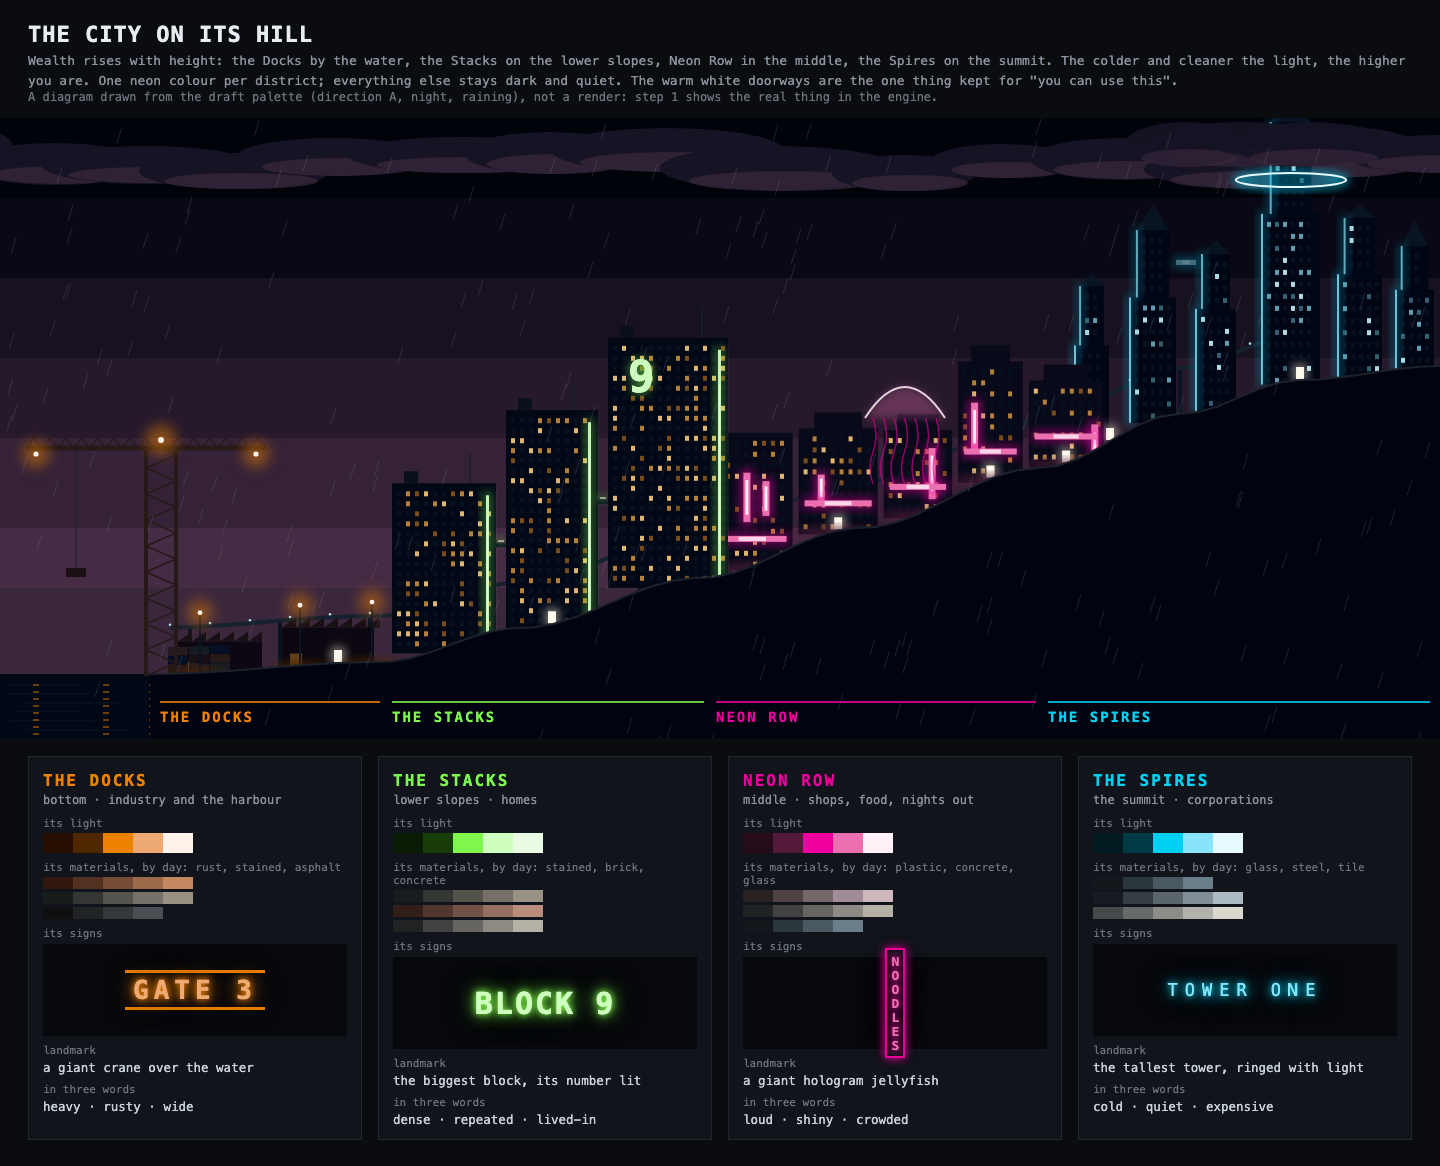
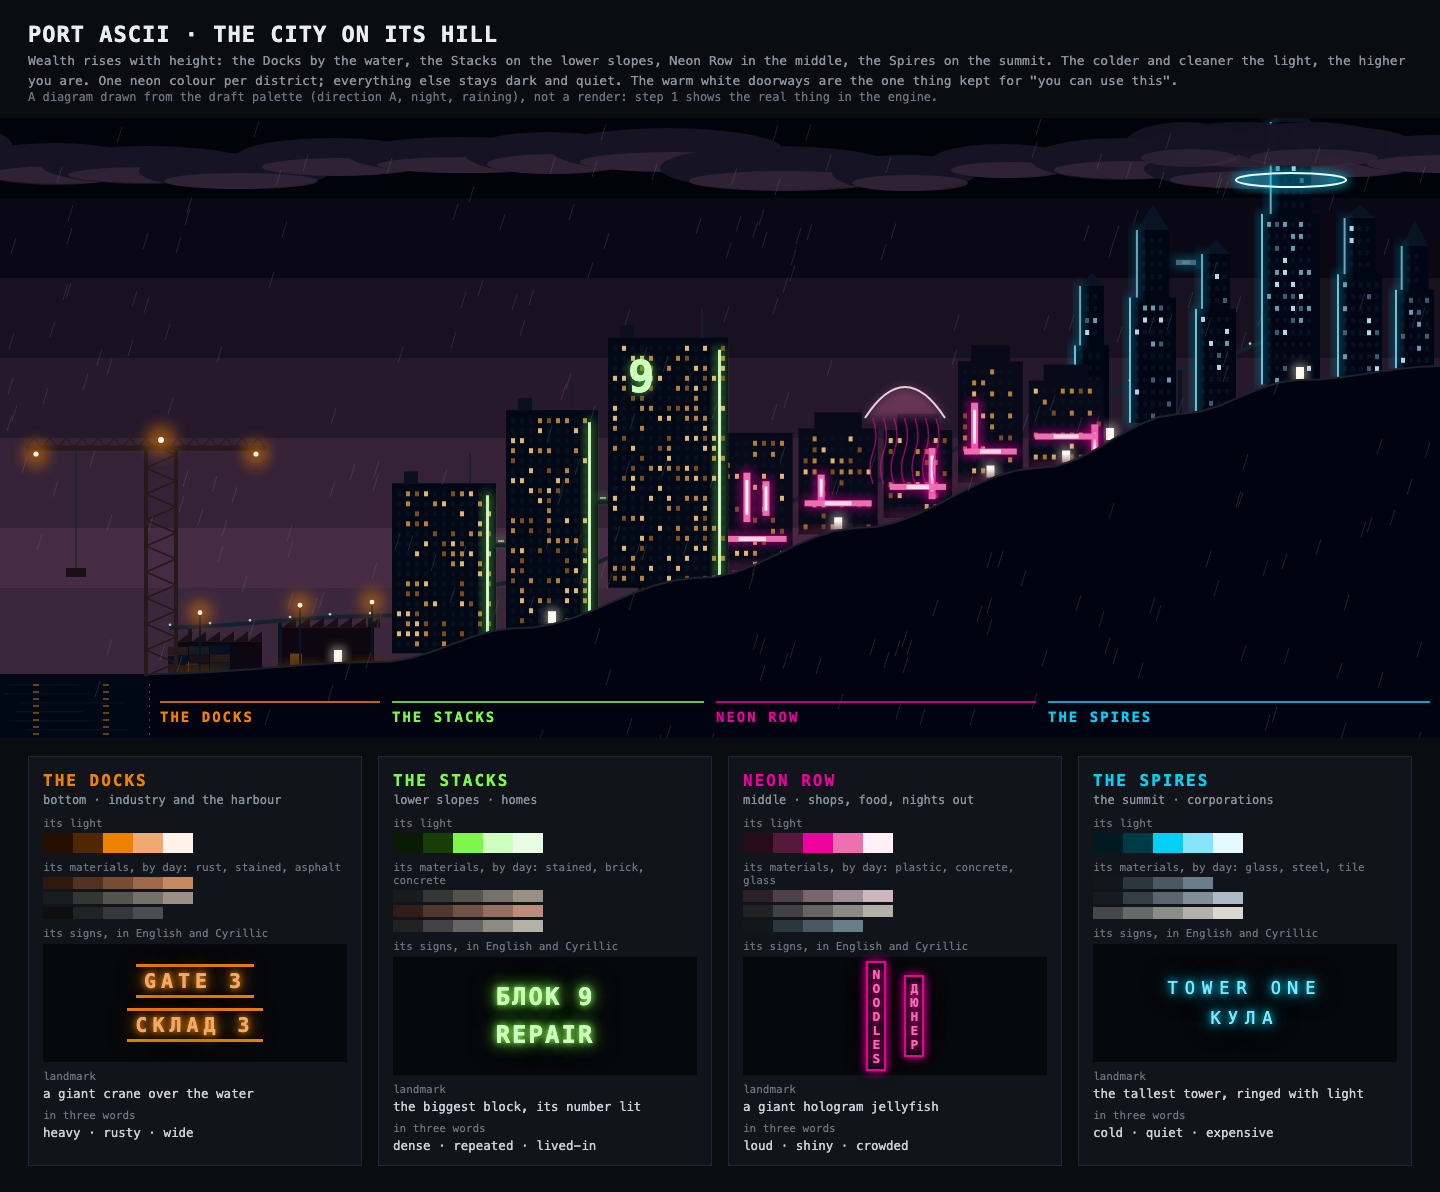
city: Martin's decisions in the art bible (Port Ascii)
Port Ascii; mood A, rain noir (B and C still shown beside it in step 1);
a full day; rain most nights; signs in English and Cyrillic (Bulgarian),
both in every district, with a first vocabulary and the letters the
bitmaps need; a jellyfish hologram; the start at the docks; credits.
The city sheet shows each district's signs in both scripts.

diff --git a/docs/city/bible.md b/docs/city/bible.md
@@ -1,8 +1,8 @@
-# The city: art bible
+# Port Ascii: art bible
 
-The second world of Ascii: a cyberpunk city in the spirit of Night City, with elevation and megabuildings, chosen at the start alongside the Land (Martin, 30 Sep 2026). On 4 Oct Martin asked for it to be planned properly from the ground up, starting with a design system, so that it looks consistent and its parts are easy to tell apart. This file is that design system: what the city looks like, why, and the rules every part of it follows.
+The second world of Ascii, **Port Ascii**: a cyberpunk city in the spirit of Night City, with elevation and megabuildings, chosen at the start alongside the Land (Martin, 30 Sep 2026). On 4 Oct Martin asked for it to be planned properly from the ground up, starting with a design system, so that it looks consistent and its parts are easy to tell apart. This file is that design system: what the city looks like, why, and the rules every part of it follows.
 
-- **Status:** step 0, a draft for Martin to mark up. Where he hasn't chosen yet, my default is in **bold** (see [Open questions](#16-open-questions-for-martin)). Nothing in the game uses it yet.
+- **Status:** step 0 is done, and Martin settled its open questions on 4 Oct (see [Decisions](#16-decisions)). Nothing in the game uses it yet.
 - **The research behind it:** [research.md](research.md).
 - **The colours:** [palette.json](palette.json), generated by `node tools/city-palette.mjs` from a recipe, so the whole palette moves together when one number changes.
 - **The pictures:** `node tools/city-sheet.mjs` draws them into `shots/city/step0/`:
@@ -27,7 +27,7 @@ The city stays behind a hidden switch (a special address, `?world=city`) until M
 
 ## 1. The city in a paragraph
 
-A harbour city climbing a steep hill. There is no room to spread, so it builds upward, and money climbs with it: the corporations own the summit and the poor live by the water. It is always wet, often raining, and never quite dark, because the signs light it all night. You arrive at the docks and look up at the whole city rising in front of you.
+Port Ascii is a harbour city climbing a steep hill. There is no room to spread, so it builds upward, and money climbs with it: the corporations own the summit and the poor live by the water. It is always wet, often raining, and never quite dark, because the signs light it all night. You arrive at the docks and look up at the whole city rising in front of you.
 
 ## 2. Three words to test everything against
 
@@ -86,9 +86,9 @@ The engine already works like a design system: hand-built colour ramps for each 
 
 ### The moods to test (step 1)
 
-The same materials, districts and neon under three different lights ([sheet-moods](../../shots/city/step0/sheet-moods.png)):
+The same materials, districts and neon under three different lights ([sheet-moods](../../shots/city/step0/sheet-moods.png)). Martin picked A; step 1 still shows B and C beside it in the engine, since a palette swap costs nothing and the engine may surprise us:
 
-- **A, Rain noir** (my pick): blue-black nights, grey smog days, the neon held back; rain most nights.
+- **A, Rain noir** (Martin's pick): blue-black nights, grey smog days, the neon held back; rain most nights.
 - **B, Neon soak:** violet-black nights, stronger and wetter neon, more signs to a street. ⚠ The risk is mush.
 - **C, Smog amber:** amber haze by day and at dusk, warmer nights, the neon cooler against it; drier.
 
@@ -179,7 +179,7 @@ The same materials, districts and neon under three different lights ([sheet-mood
   - the Spires: white strips.
 - **The hours:** by day, grey smog with the signs dimmed; at dusk the smog turns orange and violet as the signs come on; the night belongs to the neon. It runs on the same 24-hour clock as the Land, so people's timetables work the same way.
 - **Slow motion only:** signs never blink. A few big signs scroll their text slowly, the hologram drifts, rain falls, steam rises. Nothing flickers.
-- **Rain:** **most nights**, and the streets stay damp all night after it stops. Mist settles low over the Docks at dawn. No snow.
+- **Rain:** most nights, and the streets stay damp all night after it stops. Mist settles low over the Docks at dawn. No snow.
 
 ## 9. Surfaces and marks (the two looks)
 
@@ -206,14 +206,27 @@ The first vocabulary (drawn as glyph bitmasks in code, never a font):
 
 ### Signs are text
 
-The city is drawn in letters, so its signs say real words: NOODLES, BAR, HOTEL, OPEN, 24H, REPAIR, BLOCK 9, GATE 3. Up close you can read them; far off they become blocks of glow, as the Land's marks fade. Each district has its own sign style:
+The city is drawn in letters, so its signs say real words, **in English and in Cyrillic** (Bulgarian). Each sign is in one script, and both scripts appear in every district. Up close you can read them; far off they become blocks of glow, as the Land's marks fade.
+
+A first vocabulary (Martin to check the Bulgarian):
+
+| District | English | Cyrillic |
+|---|---|---|
+| the Docks | GATE 3, DOCK 7, P-12 | СКЛАД 3 (warehouse), ДОК 7, ВХОД (entrance) |
+| the Stacks | BLOCK 9, REPAIR | БЛОК 9, МАГАЗИН (shop), АПТЕКА (pharmacy, with its green cross), РЕМОНТ (repair) |
+| Neon Row | NOODLES, BAR, HOTEL, OPEN, 24H | ДЮНЕР (döner), БАР, ХОТЕЛ, КАФЕ, ДЕНОНОЩНО (open all night) |
+| the Spires | TOWER ONE, a corporation's name | КУЛА (tower) |
+
+The letters are bitmaps drawn in code, like every glyph: A to Z, 0 to 9, and the 30 capitals of the Bulgarian alphabet (about 19 of them have shapes Latin lacks: Б Г Д Ж З И Й Л П У Ф Ц Ч Ш Щ Ъ Ь Ю Я).
+
+Each district has its own sign style:
 
 - the Spires: one word in thin, spaced capitals;
 - Neon Row: stacked vertical blades;
 - the Stacks: big painted numbers;
 - the Docks: stencilled codes.
 
-The words are short and in **English** by default. ⚠ Whether the engine can draw readable letters on a sign in both looks is one of step 1's tests.
+⚠ Whether the engine can draw readable letters on a sign in both looks is one of step 1's tests.
 
 ## 10. People and vehicles
 
@@ -234,7 +247,7 @@ The words are short and in **English** by default. ⚠ Whether the engine can
   - **the signal's warm white for anything you can click or hover**, the job amber does in the Land;
   - the current district's name on the HUD, in its colour.
 - **Icons:** the same 16×16 pixel style, drawn in the city's palette.
-- **Money:** **credits** instead of gold.
+- **Money:** credits instead of gold.
 
 ## 12. Never
 
@@ -301,15 +314,15 @@ Fixed camera shots, taken again after every step and compared side by side. Each
 11. A wet street, looking along it (reflections).
 12. The view down from the Spires.
 
-## 16. Open questions for Martin
+## 16. Decisions
 
-My defaults are in bold; they stand unless you choose otherwise.
+Martin, 4 Oct 2026 ("Port Ascii, signs in both Cyrillic and English, a jellyfish hologram yeah, at the docks start, yes to all others"):
 
-1. **The name:** **Port Ascii** · City of Ascii · Glyphport · your own.
-2. **The mood:** **A, Rain noir** · B, Neon soak · C, Smog amber. You see all three in the engine in step 1 before choosing.
-3. **Day and night:** **a full day, with smoggy days and neon nights** · always night.
-4. **Rain:** **most nights, with the streets damp all night** · now and then.
-5. **Signs:** **short English words** · mixed with Cyrillic or made-up scripts.
-6. **The hologram:** **a giant jellyfish** · a koi · a face · your idea.
-7. **Where you start:** **at the docks, looking up the hill** · on the summit · halfway up.
-8. **Money:** **credits** · keep gold.
+1. **The name:** Port Ascii.
+2. **The mood:** A, Rain noir (B and C are shown beside it in step 1).
+3. **Day and night:** a full day, with smoggy days and neon nights.
+4. **Rain:** most nights, with the streets damp all night.
+5. **Signs:** English and Cyrillic (Bulgarian), both in every district.
+6. **The hologram:** a giant jellyfish.
+7. **Where you start:** at the docks, looking up the hill.
+8. **Money:** credits.

diff --git a/CLAUDE.md b/CLAUDE.md
@@ -6,7 +6,7 @@ Read `docs/phase1.md` first. It explains how a frame is drawn, the workers, the 
 
 **Phase 5 is in progress: read `docs/phase5.md`** (a lived-in world: your bag, then farms and village objects, animals, people). **Phase 4 (`docs/phase4.md`)** built castles with a purpose after Orthodox churches and castles spread out with towns; its roads, ground and climbable mountains come after phase 5. The game is public and playable at https://oddslice.github.io/land-of-ascii/ (GitHub Pages from `main`): every push to `main` is live, so keep `main` playable.
 
-**The city, a second world, is being planned: `docs/city/bible.md` is its art bible** (the design system: districts, colours with jobs, shapes, light, signs, people, screens, a never-do list, a checklist and the checks). Read it before touching anything in the city. Nothing in the game uses it yet.
+**Port Ascii, the second world (a cyberpunk city), is being planned: `docs/city/bible.md` is its art bible** (the design system: districts, colours with jobs, shapes, light, signs, people, screens, a never-do list, a checklist and the checks). Read it before touching anything in the city. Nothing in the game uses it yet.
 
 **Phase 3 is done: `docs/phase3.md`.** It is Martin's direction after phase 2's second step (third person, a bigger and more open world after Ocarina of Time, no flicker, gear that shows on your hero, then settlements), the plan in five steps, and each step as it is built.
 
@@ -135,8 +135,8 @@ Test harness notes:
   - **Step 4 (animals) is built:** sheep or cows in every pasture, flocks on open grass near the villages, hens before the houses, ducks on the nearest water, deer in the forests' clearings; they turn, walk and graze on a timetable, move off as you come close, and a deer bolts.
   - **Step 5 (people) is built:** villagers with a day of their own in every village and town (out after sunrise to the square, the well, the market or the chapel, home before dark), farmers hoeing the fields, a trader at each stall (E shows their wares), guards at the town gates; E greets anyone near, and they answer.
   - The feedback round is done: Martin sends the game out. Waiting: colourful farmland, things along the roads, docks on lakes.
-- **The city (a second world) is in planning**, following `docs/city/bible.md`: a cyberpunk city in the spirit of Night City (elevation, megabuildings), chosen at the start alongside the Land (Martin, 30 Sep). On 4 Oct Martin asked for it to be planned from the ground up, design system first.
-  - **Step 0 (the art bible) is written:** a harbour city on a hill where wealth rises with height (the Docks, the Stacks, Neon Row, the Spires), one neon colour per district over a quiet base, one warm white kept for "you can use this", signs in real words; the research (`docs/city/research.md`), a draft palette (`docs/city/palette.json`, from `tools/city-palette.mjs`) and sheets (`tools/city-sheet.mjs`). Claude Design was considered and not used for the world (see the research).
+- **Port Ascii (the second world) is in planning**, following `docs/city/bible.md`: a cyberpunk city in the spirit of Night City (elevation, megabuildings), chosen at the start alongside the Land (Martin, 30 Sep). On 4 Oct Martin asked for it to be planned from the ground up, design system first.
+  - **Step 0 (the art bible) is written:** a harbour city on a hill where wealth rises with height (the Docks, the Stacks, Neon Row, the Spires), one neon colour per district over a quiet base, one warm white kept for "you can use this", signs in real words; the research (`docs/city/research.md`), a draft palette (`docs/city/palette.json`, from `tools/city-palette.mjs`) and sheets (`tools/city-sheet.mjs`). Claude Design was considered and not used for the world (see the research). Martin's decisions (4 Oct): the name Port Ascii, mood A (rain noir), a full day, rain most nights, signs in English and Cyrillic, a jellyfish hologram, the start at the docks, credits.
   - Next, when Martin says go: step 1, a test block in the real engine behind a hidden switch (`?world=city`), in three moods; then step 2 locks the palette into the game and a style contract into this file.
 - **Speed on Martin's Mac** (M1 Max, painted look): on the 512 world, Chromium 5.7–7.5 ms a frame, Firefox 7.3–9.9 ms, WebKit 6.5–14.1 ms. The 1024 world has not been measured on an idle machine yet: with Chrome busy in the background it ran Chromium 8.4–12.5 ms, Firefox 12.3–17.1 ms. A world generates in about 2.3 s (0.5 s on the 512 world).
 - **Rough edges:**

diff --git a/README.md b/README.md
@@ -38,7 +38,7 @@ In the address: `?seed=42` for a given world, `?look=mosaic`, and `?weather=rain
 
 ## Docs
 
-- **[docs/city/bible.md](docs/city/bible.md)**: the second world, a cyberpunk city on a hill (in planning, not in the game yet). Step 0 is its art bible, the design system every part of it will follow: four districts that rise with wealth, one neon colour each over a quiet base, signs in real words ([the city](shots/city/step0/sheet-city.png), [three moods](shots/city/step0/sheet-moods.png), [the palette and its checks](shots/city/step0/sheet-palette.png)). The sources are in [docs/city/research.md](docs/city/research.md).
+- **[docs/city/bible.md](docs/city/bible.md)**: Port Ascii, the second world: a cyberpunk city on a hill (in planning, not in the game yet). Step 0 is its art bible, the design system every part of it will follow: four districts that rise with wealth, one neon colour each over a quiet base, signs in English and Cyrillic ([the city](shots/city/step0/sheet-city.png), [three moods](shots/city/step0/sheet-moods.png), [the palette and its checks](shots/city/step0/sheet-palette.png)). The sources are in [docs/city/research.md](docs/city/research.md).
 - **[docs/phase2-world.md](docs/phase2-world.md)**: the phase 2 brief (in progress). Varied land, villages and towns, people and animals, and the tests that change with the world.
 - **[docs/phase2.md](docs/phase2.md)**: phase 2 as it is built. Step 1: eight regions, terrain shaped per region, new ground materials, rock strata ([pictures](shots/phase2/sheet-regions.png)). Then the painted look, shadows and water mirrors ([mosaic and painted side by side](shots/phase2/sheet-looks-1.png)). Step 2, the land: plants for every region, bridges, and weather with fireflies and auroras at night ([regions](shots/phase2/step2/sheet-regions.png), [bridges](shots/phase2/step2/sheet-bridges.png), [weather](shots/phase2/step2/sheet-weather.png)).
 - **[docs/phase5.md](docs/phase5.md)**: phase 5, a lived-in world (in progress). Step 1: your bag, an RPG inventory; eat and drink to be well fed, wear or put away what you own, and sell to the merchants ([the bag and trading](shots/phase5/step1/sheet-bag.png), [eating the cheese](shots/phase5/step1/sheet-eat.png)). Step 2a: farms round every village and town, fields in crop rows, fenced pastures, haystacks and windmills ([farms](shots/phase5/step2/sheet-farms.png)). Step 2b: life in the villages and towns, market stalls under striped awnings, barrels, woodpiles, carts, and signposts where roads leave a settlement and where they meet ([village and town life](shots/phase5/step2b/sheet-life.png)). Step 3: the bag as an RPG inventory, your hero in pixels wearing what you wear, ten slots round them and 28 blocks below, with trading beside it ([inventory](shots/phase5/step3/sheet-inventory.png)). Step 4: animals, sheep and cows in the pastures, flocks near the villages, hens, ducks and deer that bolt as you come near ([animals](shots/phase5/step4/sheet-animals.png)). Step 5: people, villagers with a day of their own, farmers in the fields, traders at the stalls who sell you food, guards at the gates; E greets them ([people](shots/phase5/step5/sheet-people.png)). Then water that looks like water: its own colour and ripples running downstream, mirroring only as much as the angle you look at it gives ([before and after](shots/phase5/water/sheet-water.png)).
